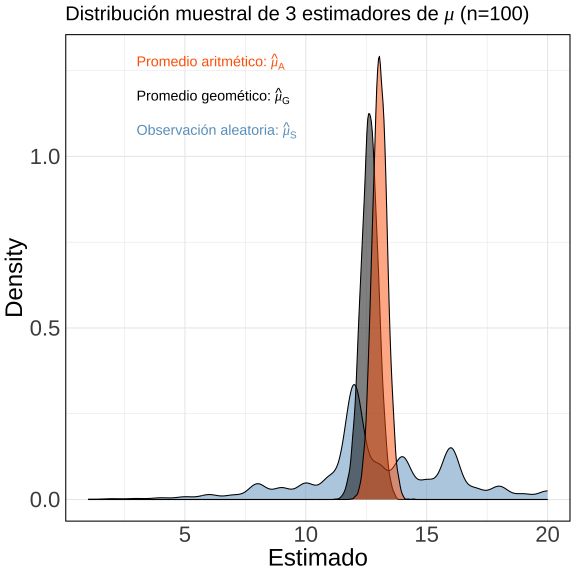
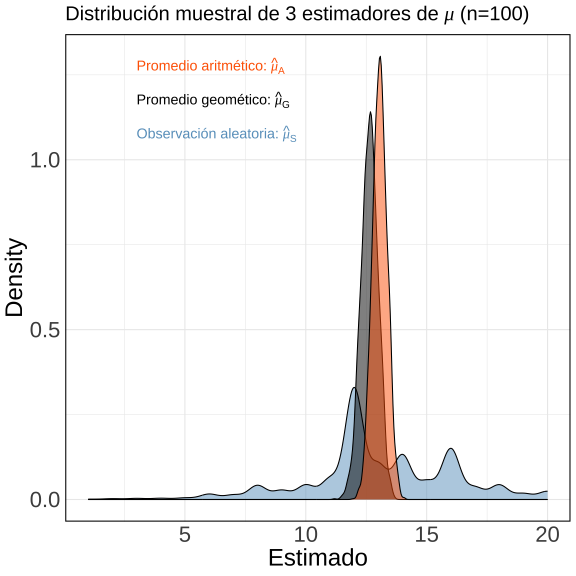
Update

diff --git a/slides/class_10/class_10.html b/slides/class_10/class_10.html
@@ -16,7 +16,7 @@ class: center, middle, inverse, title-slide
 # Probabilidad e Inferencia Estadística
 ]
 .subtitle[
-## #10: Distribución Muestral, Sesgo y Varianza
+## #10: Distribución Muestral, Sesgo y Error Standard
 ]
 .author[
 ### <br> Mauricio Bucca <br> <a href="https://github.com/mebucca">github.com/mebucca</a> <br> <a href="mailto:mebucca@uc.cl" class="email">mebucca@uc.cl</a>
@@ -127,16 +127,16 @@ mimuestra %&gt;% as_tibble()
 ## # A tibble: 100 × 3
 ##    year   educ   age
 ##    &lt;fct&gt; &lt;dbl&gt; &lt;dbl&gt;
-##  1 2014     16    63
-##  2 2000     11    32
-##  3 1991     13    21
-##  4 1978     12    51
-##  5 1990     15    50
-##  6 1987     11    20
-##  7 1988     14    43
-##  8 2004     16    57
-##  9 2010      4    40
-## 10 1990     14    32
+##  1 1994     12    43
+##  2 2008      8    80
+##  3 2016      7    75
+##  4 1987     13    20
+##  5 1987     12    30
+##  6 2014      9    57
+##  7 1996      7    55
+##  8 1993     13    35
+##  9 1989     12    66
+## 10 2004     13    21
 ## # ℹ 90 more rows
 ```
 ]
@@ -152,7 +152,7 @@ cat("Promedio Aritmético= ", mu_A)
 ```
 
 ```
-## Promedio Aritmético=  13.17
+## Promedio Aritmético=  12.93
 ```
 
 ```r
@@ -160,7 +160,7 @@ cat("Promedio Geométrico= ", mu_G)
 ```
 
 ```
-## Promedio Geométrico=  12.68061
+## Promedio Geométrico=  12.3578
 ```
 
 ```r
@@ -168,7 +168,7 @@ cat("Observación aleatoria= ", mu_S)
 ```
 
 ```
-## Observación aleatoria=  12
+## Observación aleatoria=  15
 ```
 ]
 
@@ -207,9 +207,9 @@ for (i in 1:repeats) {
 ```
 ## Rows: 5,000
 ## Columns: 3
-## $ mu_A &lt;dbl&gt; 13.07, 13.22, 13.51, 13.67, 13.27, 13.69, 13.67, 12.62, 12.93, 12…
-## $ mu_G &lt;dbl&gt; 12.45004, 12.86006, 13.11774, 13.20489, 12.87325, 13.25285, 13.36…
-## $ mu_S &lt;dbl&gt; 18, 14, 14, 16, 12, 10, 12, 15, 12, 16, 13, 12, 3, 16, 12, 15, 12…
+## $ mu_A &lt;dbl&gt; 12.78, 13.15, 13.20, 13.01, 13.48, 12.87, 13.14, 13.55, 13.18, 12…
+## $ mu_G &lt;dbl&gt; 12.33533, 12.61245, 12.68109, 12.52603, 13.15939, 12.62303, 12.65…
+## $ mu_S &lt;dbl&gt; 16, 12, 20, 11, 14, 14, 12, 12, 12, 10, 12, 11, 14, 15, 11, 16, 1…
 ```
 
 ---
@@ -224,7 +224,7 @@ for (i in 1:repeats) {
 .pull-right[
 
 - La socióloga se pregunta 
-.bold[¿cual de estos es mejor?] 
+.bold[¿cual de estos estimadores es mejor?] 
 
 ![confused](https://i.gifer.com/3RFR.gif)
 ]
@@ -258,7 +258,7 @@ Después de un poco de algebra el MSE puede ser descompuesto en dos componentes:
 
 
 ---
-## Sesgo y Varianza de un estimador
+## Sesgo y Error Standard de un estimador
 
 Por tanto, para evaluar la bondad de un estimador necesitamos conocer dos cantidades:
 
@@ -272,7 +272,7 @@ Por tanto, para evaluar la bondad de un estimador necesitamos conocer dos cantid
 --
 
 .pull-left[
-¿Cómo podemos calcular el sesgo y el error estándar de un estimador?
+¿Cómo podemos calcular el sesgo y el error estándar de un estimador? ¡No conocemos el valor verdadero de `\(\beta\)`!
 
 &lt;br&gt;
 
@@ -286,13 +286,13 @@ Por tanto, para evaluar la bondad de un estimador necesitamos conocer dos cantid
 
 
 ---
-## Sesgo y Varianza de un estimador
+## Sesgo y Error Standard de un estimador
 
-La sociólaga recuerda los .bold[teorémas asintóticos] aprendidos en .bold[SOL114] en sus años universitarios.
+La socióloga recuerda los .bold[teorémas asintóticos] aprendidos en .bold[SOL114] en sus años universitarios.
 
 --
 
-Específicamente, para la media muestal, por la .bold[Ley de los grandes números] sabemos que `\(\bar{X} \overset{p}{\to} \mathbb{E}(X)\)`, porque:
+Específicamente, recuerda que para la media muestal `\(\hat{\mu}_A\)`, por la .bold[Ley de los grandes números]  `\(\bar{X} \overset{p}{\to} \mathbb{E}(X)\)`. ¿Por qué?:
 
 --
 
@@ -320,15 +320,13 @@ Específicamente, para la media muestal, por la .bold[Ley de los grandes número
 
 
 ---
-## Sesgo y Varianza de un estimador
+## Sesgo y Error Standard de un estimador
 
-Volviendo al ejemplo,
+Entonces, para media muestral `\(\hat{\mu}_A\)` la socióloga puede estar segura de que:
 
-- La la .bold[Ley de los grandes números] muestra que:
-
-  - `\(\hat{\mu}_A\)` es insesgado: `\(\mathbb{E}(\bar{X}_{n})=\mu\)` 
+  - `\(\hat{\mu}_A\)` es .bold[insesgado]: `\(\mathbb{E}(\bar{X}_{n})=\mu\)` 
   
-  - `\(\hat{\mu}_A\)` es consistente: `\(\sqrt{\text{Var}(\bar{X})}=\frac{\sigma}{\sqrt{n}}\)` 
+  - `\(\hat{\mu}_A\)` es .bold[consistente]: `\(\sqrt{\text{Var}(\bar{X})}=\frac{\sigma}{\sqrt{n}}\)` 
 
 --
 
@@ -336,22 +334,55 @@ Volviendo al ejemplo,
 
 - Para `\(\hat{\mu}_S\)` (observación seleccionada al azar)
 
-  - `\(\hat{\mu}_S\)` es insesgado: `\(\mathbb{E}(X_{i})=\mu\)`, `\(\quad \hat{\mu}_S\)` es inconsistente: `\(\sqrt{\text{Var}(X_i)}=\sigma\)`  
+  - `\(\hat{\mu}_S\)` es .bold[insesgado]: `\(\mathbb{E}(X_{i})=\mu\)`, `\(\quad \hat{\mu}_S\)` es .bold[inconsistente]: `\(\sqrt{\text{Var}(X_i)}=\sigma\)`  
 
 --
 
-
 - Para `\(\hat{\mu}_G\)` (media geomética)
 
-  - `\(\hat{\mu}_G\)`: `\(\mathbb{E}\bigg(\left( X_1 \times X_2 \times \ldots \times X_{100} \right)^{\frac{1}{100}}\bigg)=\)` ? 
+  - `\(\hat{\mu}_G\)`: `\(\mathbb{E}\bigg(\left( X_1 \times X_2 \times \ldots \times X_{100} \right)^{\frac{1}{100}}\bigg)=\)` .bold[¿?] 
   
-  - `\(\hat{\mu}_G\)`: `\(\sqrt{\mathbb{Var}\bigg(\left( X_1 \times X_2 \times \ldots \times X_{100} \right)^{\frac{1}{100}}\bigg)}\)` ?
+  - `\(\hat{\mu}_G\)`: `\(\sqrt{\mathbb{Var}\bigg(\left( X_1 \times X_2 \times \ldots \times X_{100} \right)^{\frac{1}{100}}\bigg)}\)` .bold[¿?]
 
 .img-right-bottom[![fear](https://media.giphy.com/media/14ut8PhnIwzros/giphy.gif)]
 
 ---
-class: inverse, center, middle
+## Sesgo y Error Standard de un estimador
 
+Supongamos que la socióloga decide confiar en los resultados en los resultados entregados por la media muestral `\(\hat{\mu}_A\)`:
+
+  - Insesgado: en promedio entrega el valor correcto de la media)
+  - Consistente: para muestras grandes el valor los estimado va a ser cercado a la media verdadera
+  
+
+&lt;br&gt;
+--
+
+Específicamente, 
+
+  - `\(\mathbb{E}(\bar{X}_{n})=\mu\)` 
+  
+  - `\(\sqrt{\text{Var}(\bar{X})}=\frac{\sigma}{\sqrt{n}}\)` 
+
+&lt;br&gt;
+--
+
+.bold[Pero],
+
+--
+
+- ¿Cual es el valor de `\(\mu\)`
+
+- ¿Cual es el valor de `\(\sigma\)`
+
+
+
+.img-right-bottom[![donknow](https://media.giphy.com/media/jOpLbiGmHR9S0/giphy.gif)]
+
+
+
+---
+class: inverse, center, middle
 
 ##Hasta la próxima clase. Gracias!
 
